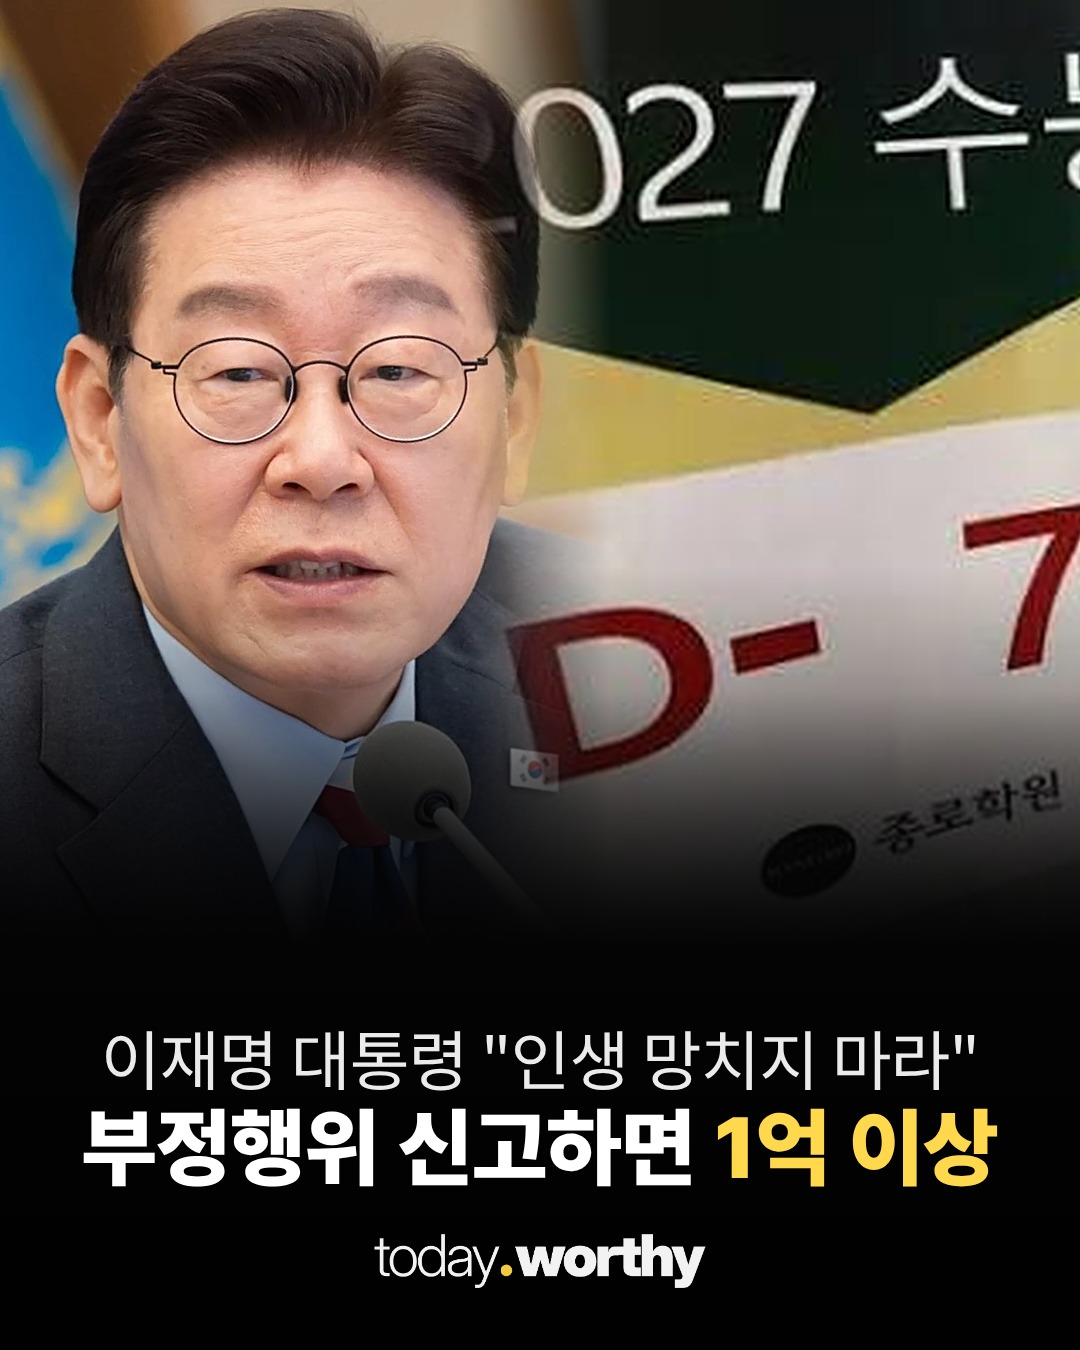
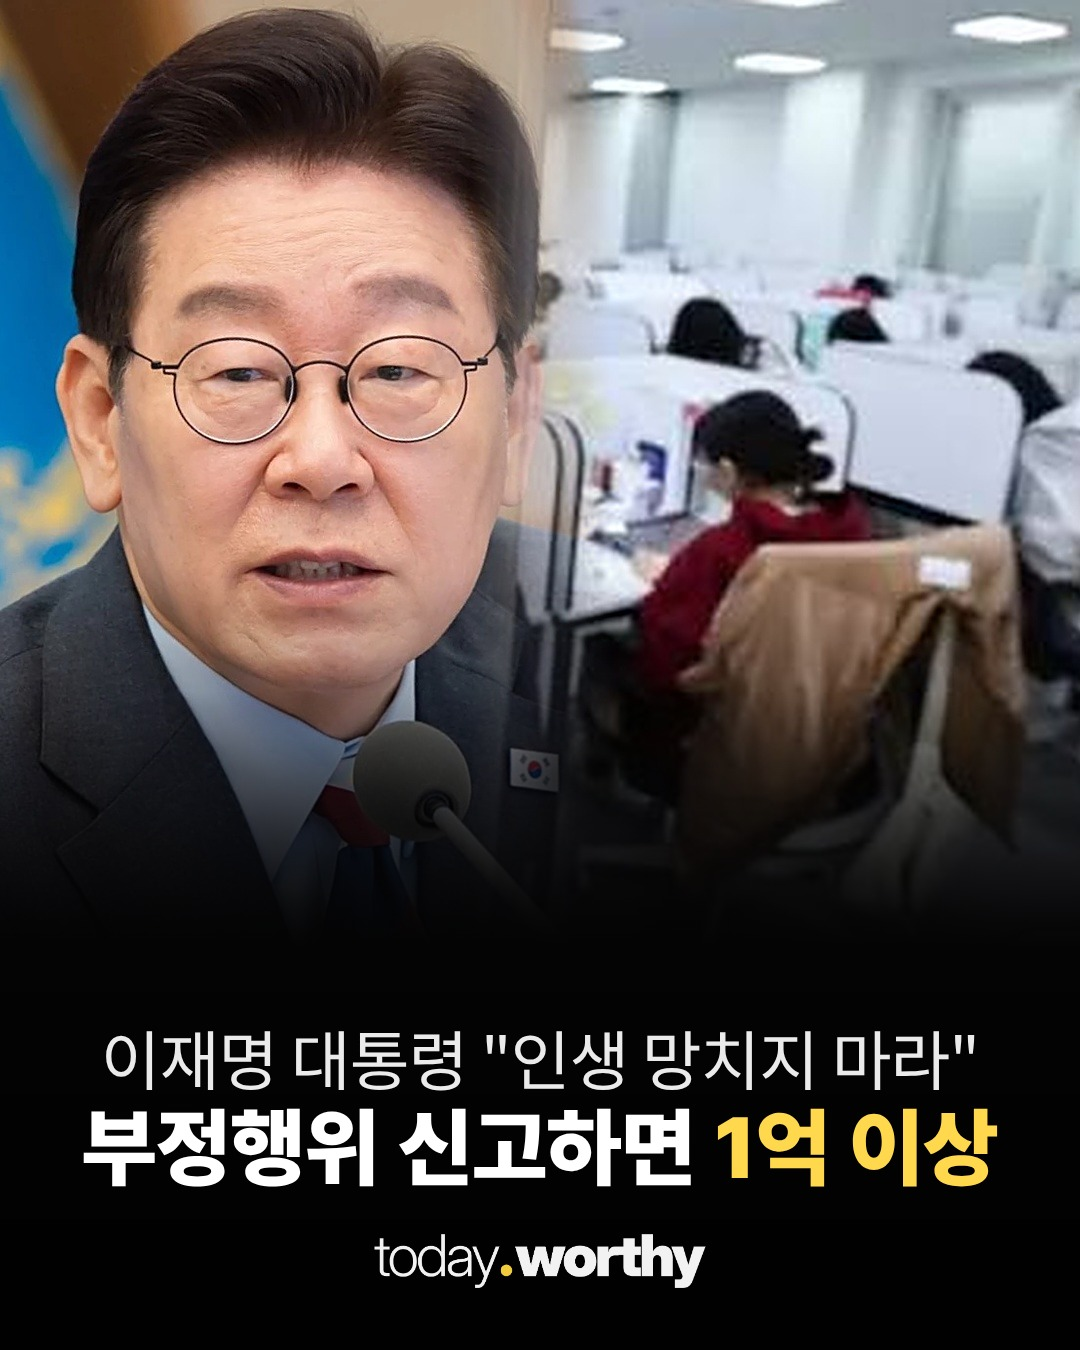
ljm 표지: 오른쪽 사진을 시험 보는 학생들 쪽으로(재게시용)
Claude-Session: https://claude.ai/code/session_01FGsw5QnWxFUsnopcB1Czie

diff --git a/media/20261117-ljm/build_card.py b/media/20261117-ljm/build_card.py
@@ -34,10 +34,10 @@ logo(im); im.save(Path(__file__).parent / "cand" / "c02_rebuilt_unused.jpg", qua
 # D-7 사진 위쪽 '11월 12일(목)' 글씨는 이번 수능 날짜(19일)와 달라 잘라냄.
 from PIL import ImageFilter, ImageOps
 A = Image.open(Path(__file__).parent / "cand" / "user_photo3.jpg").convert("RGB")  # 2026-11-17 사용자 교체 사진(고화질)
-B = Image.open(Path(__file__).parent / "cand" / "user_d7.jpg").convert("RGB").crop((0, 88, 300, 369))
+B = Image.open(Path(__file__).parent / "cand" / "user_d7.jpg").convert("RGB").crop((340, 20, 588, 322))  # 사용자: 팻말 말고 시험 보는 학생들 쪽
 TH = 950
 A = ImageOps.fit(A, (620, TH), Image.LANCZOS, centering=(.5, 0)).filter(ImageFilter.UnsharpMask(2, 60, 2))
-B = ImageOps.fit(B, (620, TH), Image.LANCZOS, centering=(.55, .5)).filter(ImageFilter.UnsharpMask(2, 60, 2))
+B = ImageOps.fit(B, (620, TH), Image.LANCZOS, centering=(.5, .5)).filter(ImageFilter.UnsharpMask(2, 60, 2))
 L = Image.new("RGB", (W, TH)); L.paste(A, (0, 0)); Rr = Image.new("RGB", (W, TH)); Rr.paste(B, (W - 620, 0))
 row = Image.new("L", (W, 1)); row.putdata([0 if x < 470 else 255 if x > 610 else int(255 * (x - 470) / 140) for x in range(W)])
 top = Image.composite(Rr, L, row.resize((W, TH)))
